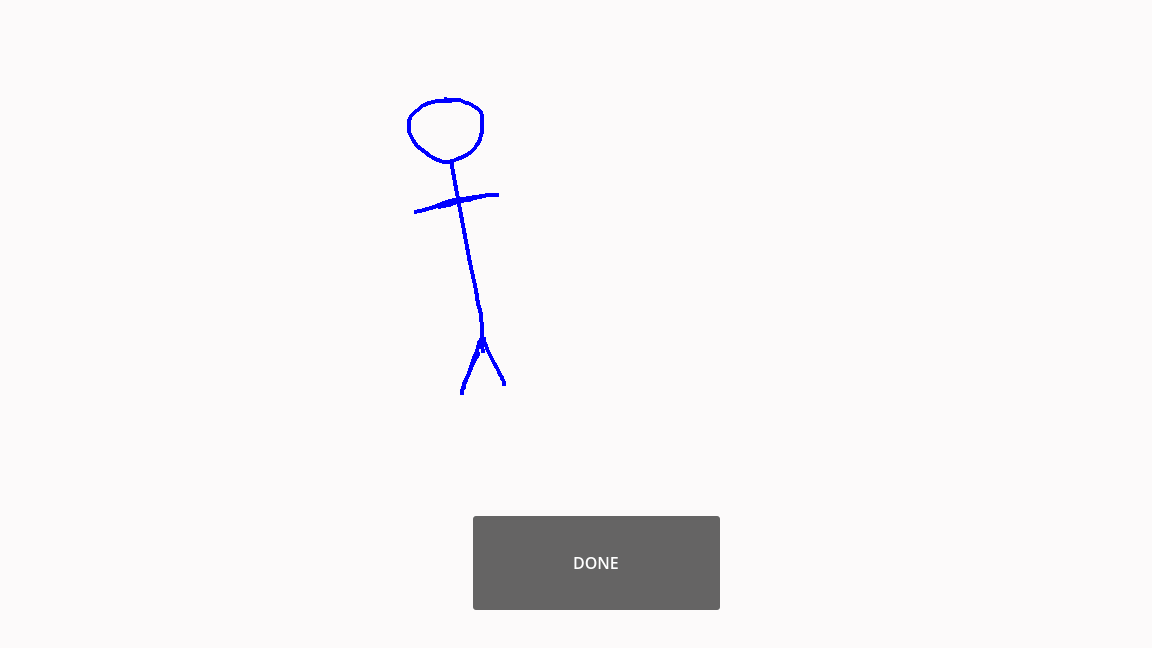
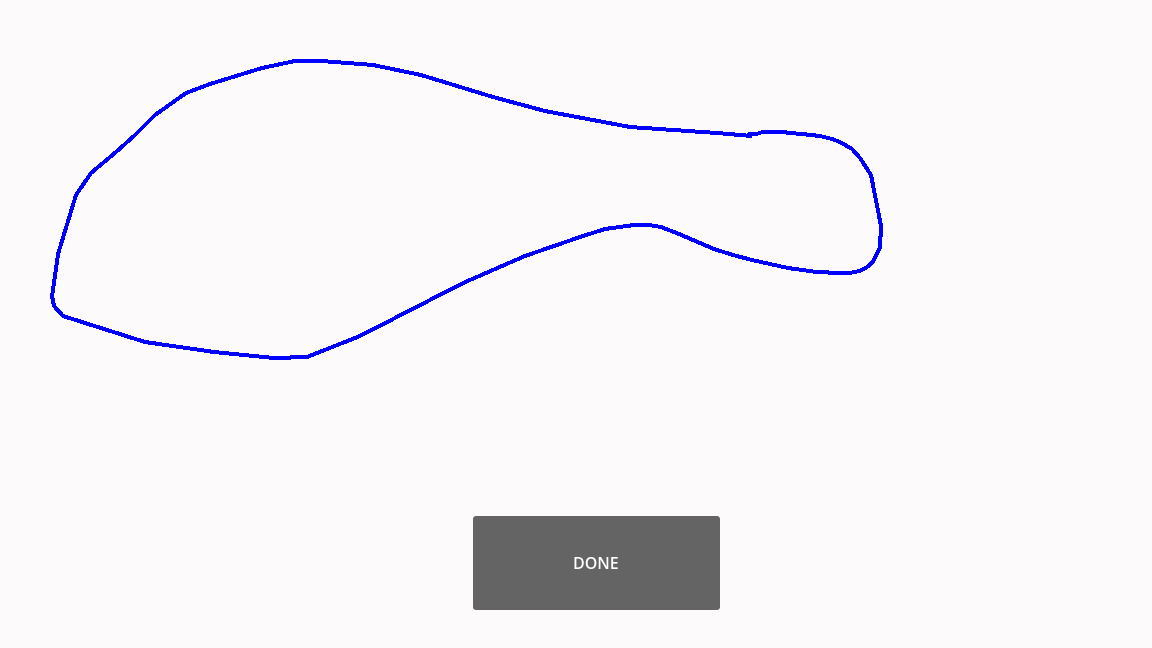
Implementing Main Menu and initial scene switch

diff --git a/README.md b/README.md
@@ -5,3 +5,7 @@ For this mini project, my goal is to make a platformer game that allows the user
 The resources I used to learn the Godot environment: 
 * https://www.youtube.com/watch?v=oED12Mo2018
 * https://www.youtube.com/watch?v=U_TGOgp5-pc&t=1s
+* https://docs.godotengine.org/en/stable/getting_started/step_by_step/signals.html
+* https://docs.godotengine.org/en/stable/tutorials/2d/custom_drawing_in_2d.html
+* https://www.youtube.com/watch?v=qOLA1qwUCio&vl=en 
+* https://docs.godotengine.org/en/stable/tutorials/scripting/singletons_autoload.html 
